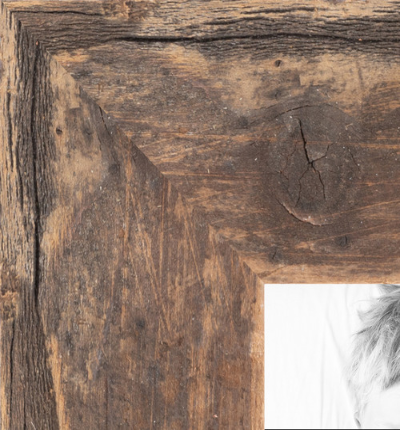
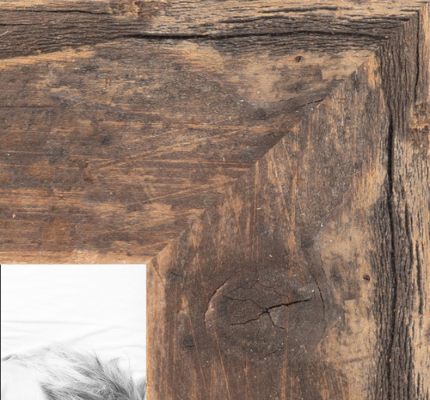
framing carousel

diff --git a/framing.html b/framing.html
@@ -72,7 +72,53 @@
 
 <hr>
 
-<!-- this is where the frame style carousel needs to go  -->
+
+<div class="row row-content">
+  <div class="col-md-6 mx-auto">
+<div class="carousel slide" id="framingCarousel" data-ride="carousel">
+
+  <ol class="carousel-indicators">
+    <li data-target="#framingCarousel" data-slide-to="0" class="active"></li>
+    <li data-target="#framingCarousel" data-slide-to="1"></li>
+    <li data-target="#framingCarousel" data-slide-to="2"></li>
+  </ol>
+
+  <div class="carousel-inner">
+    <div class="carousel-item active" ><img class="d-block w-100 framingImg" src="imgs/antiqueFrame.png">
+      <div class="carousel-caption">
+        <h3>Antique</h3>
+      </div>
+    </div>
+
+    <div class="carousel-item"><img class="d-block w-100 framingImg" src="imgs/rusticFrame.png">
+          <div class="carousel-caption">
+        <h3>Rustic</h3>
+      </div>
+    </div>
+    
+    <div class="carousel-item"><img class="d-block w-100 framingImg" src="imgs/simpleFrame.png">
+          <div class="carousel-caption">
+        <h3>Simple</h3>
+      </div>
+    </div>
+
+  </div>
+
+    <a class="carousel-control-prev  " href="#framingCarousel" role="button" data-slide="prev">
+      <span class="carousel-control-prev-icon " aria-hidden="true"></span>
+      <span class="sr-only">Previous</span>
+    </a>
+    <a class="carousel-control-next  " href="#framingCarousel" role="button" data-slide="next">
+      <span class="carousel-control-next-icon" aria-hidden="true"></span>
+      <span class="sr-only">Next</span>
+    </a>
+
+
+
+</div>
+</div>
+</div>
+
 
 <form class="row-content">
 

diff --git a/style.css b/style.css
@@ -48,6 +48,7 @@ ul {
     list-style-type: none;
   }
 
+
 .galleryImg{
     margin-top: 2rem;
     height: auto;
@@ -62,6 +63,23 @@ ul {
      margin-top: 1rem;
  }
 
+
+.carousel-caption {
+    background-color: rgba(0, 0, 0, 0.5); 
+}
+
+.carousel-control-next-icon {
+    background-color: #cf7425;
+}
+
+.carousel-control-prev-icon {
+    background-color: #cf7425;
+}
+
+
+
+
+
 @media (max-width: 576px){
     .mobile-logo {
         display: block;
@@ -69,7 +87,9 @@ ul {
     .desktop-logo {
         display: none;
     }
+
 }
+
 
 @media (min-width: 576px){
     .mobile-logo {
@@ -77,5 +97,11 @@ ul {
     }
     .desktop-logo {
         display: block;
+    }
+    .carousel-control-prev {
+        margin-left: -67px;
+    }
+      .carousel-control-next {
+        margin-right: -67px;
     }
 }
